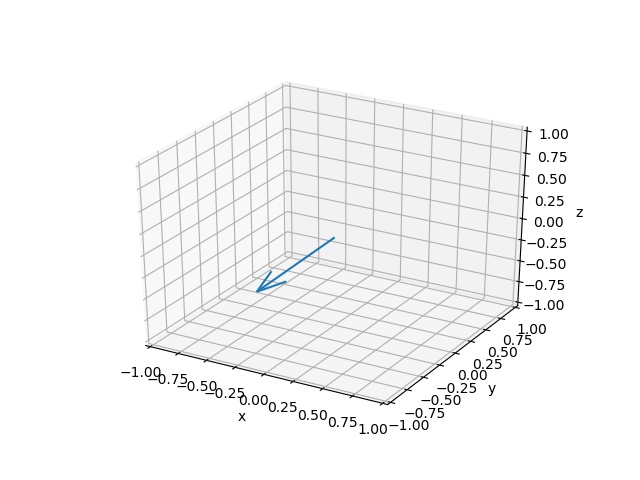
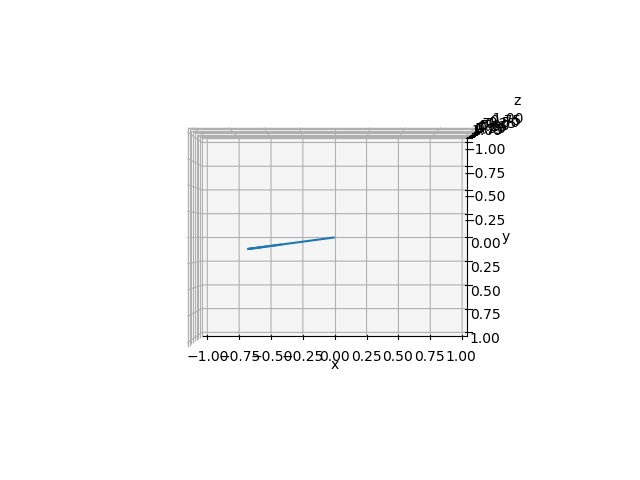
update

Changed region(s): [[0.1875, 0.1562, 0.9062, 0.9062]]

diff --git a/look_vec.py b/look_vec.py
@@ -12,12 +12,13 @@ if __name__ == '__main__':
         item = data[i]
         x, y, z = item['out'][0], item['out'][1], item['out'][2]
 
-        soa = np.array([[0, 0, 0, x, y, z]])
+        soa = np.array([[0, 0, 0, x, -y, z]])
 
         X, Y, Z, U, V, W = zip(*soa)
         fig = plt.figure()
         ax = fig.add_subplot(111, projection='3d')
         ax.quiver(X, Y, Z, U, V, W)
+        ax.view_init(elev=-90, azim=-90)
         ax.set_xlabel('x')
         ax.set_ylabel('y')
         ax.set_zlabel('z')
@@ -27,4 +28,5 @@ if __name__ == '__main__':
         # plt.show()
 
         plt.savefig("images/{}_angle.jpg".format(i))
+        # break
 
